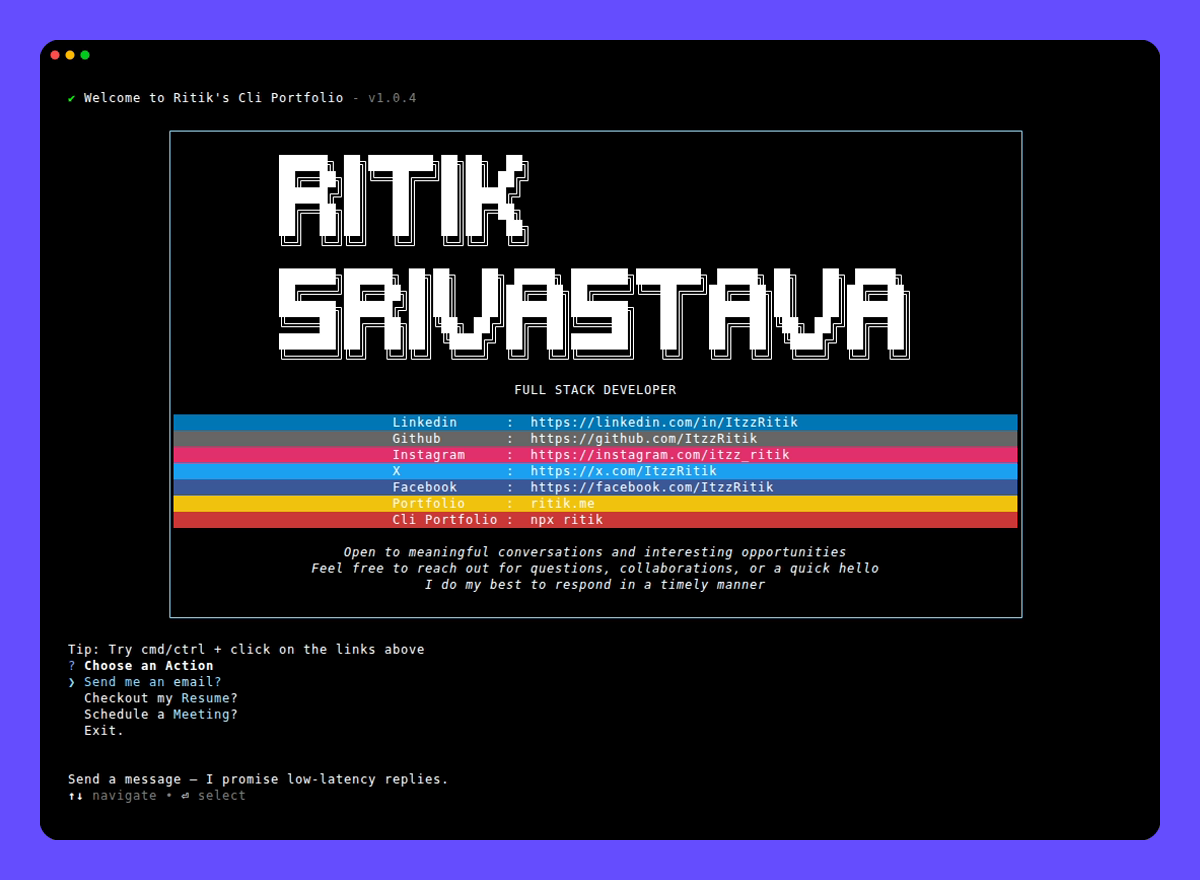
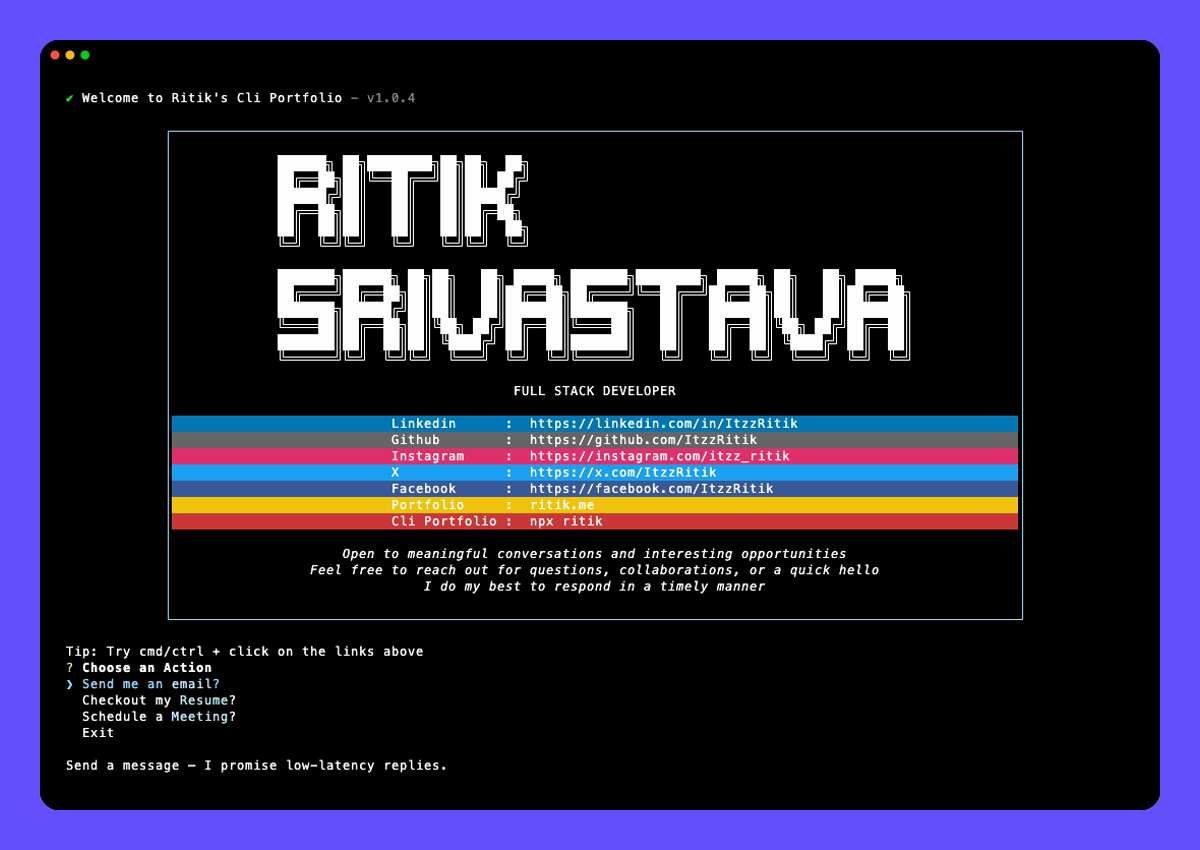
Optimise bundle size

diff --git a/src/ui/input.ts b/src/ui/input.ts
@@ -1,0 +1,62 @@
+import readline from 'node:readline';
+import process from 'node:process';
+import chalk from 'chalk';
+
+export function select<T>(config: { message: string; choices: { name: string; value: T; description?: string }[] }): Promise<T> {
+	const { stdin, stdout } = process;
+	const rl = readline.createInterface({ input: stdin, output: stdout });
+	const { choices, message } = config;
+	let idx = 0;
+
+	if (stdin.isTTY) stdin.setRawMode(true);
+	readline.emitKeypressEvents(stdin);
+	stdout.write('\x1B[?25l');
+
+	const render = (first = false) => {
+		if (!first) {
+			const lines = 1 + choices.length + 1;
+			readline.moveCursor(stdout, 0, -lines);
+			readline.cursorTo(stdout, 0);
+			readline.clearScreenDown(stdout);
+		}
+
+		const sel = choices[idx];
+		const list = choices.map((c, i) => (i === idx ? `${chalk.cyan('❯')} ${chalk.cyan(c.name)}` : `  ${c.name}`)).join('\n');
+		stdout.write(`${chalk.green('?')} ${chalk.bold(message)}\n${list}\n${sel.description || ''}`);
+	};
+
+	render(true);
+
+	return new Promise((resolve) => {
+		const done = () => {
+			stdout.write('\x1B[?25h');
+			if (stdin.isTTY) stdin.setRawMode(false);
+			stdin.removeListener('keypress', handle);
+			rl.close();
+		};
+
+		const handle = (_: unknown, k: readline.Key) => {
+			if (k.name === 'return') {
+				const sel = choices[idx];
+				const lines = 1 + choices.length + 1;
+				readline.moveCursor(stdout, 0, -lines);
+				readline.cursorTo(stdout, 0);
+				readline.clearScreenDown(stdout);
+				stdout.write(`${chalk.green('✔')} ${chalk.bold(message)} ${chalk.gray('·')} ${sel.name}\n`);
+				done();
+				resolve(sel.value);
+			} else if (k.ctrl && k.name === 'c') {
+				done();
+				process.exit(0);
+			} else if (k.name === 'up') {
+				idx = (idx - 1 + choices.length) % choices.length;
+				render();
+			} else if (k.name === 'down') {
+				idx = (idx + 1) % choices.length;
+				render();
+			}
+		};
+
+		stdin.on('keypress', handle);
+	});
+}

diff --git a/src/core/config.ts b/src/core/config.ts
@@ -39,7 +39,7 @@ export const DEFAULT_CLI_CONFIG: CLIConfig = {
 			success: 'Meeting scheduled — time to build something great together.',
 		},
 		exit: {
-			message: 'Exit.',
+			message: 'Exit',
 			description: 'Ending session, but not the connection.',
 			success: 'Session ended — but DMs are always open.',
 		},

diff --git a/src/ui/views.ts b/src/ui/views.ts
@@ -1,5 +1,5 @@
 import boxen from 'boxen';
-import { select } from '@inquirer/prompts';
+import { select } from './input.js';
 import figlet from 'figlet';
 import chalk from 'chalk';
 import { UserProfile } from '../core/types.js';

diff --git a/rollup.config.js b/rollup.config.js
@@ -12,7 +12,7 @@ export default {
 		}),
 		commonjs(),
 		json(),
-		esbuild({ minify: true }),
+		esbuild({ minify: true, target: 'node20' }),
 	],
 	output: [
 		{
